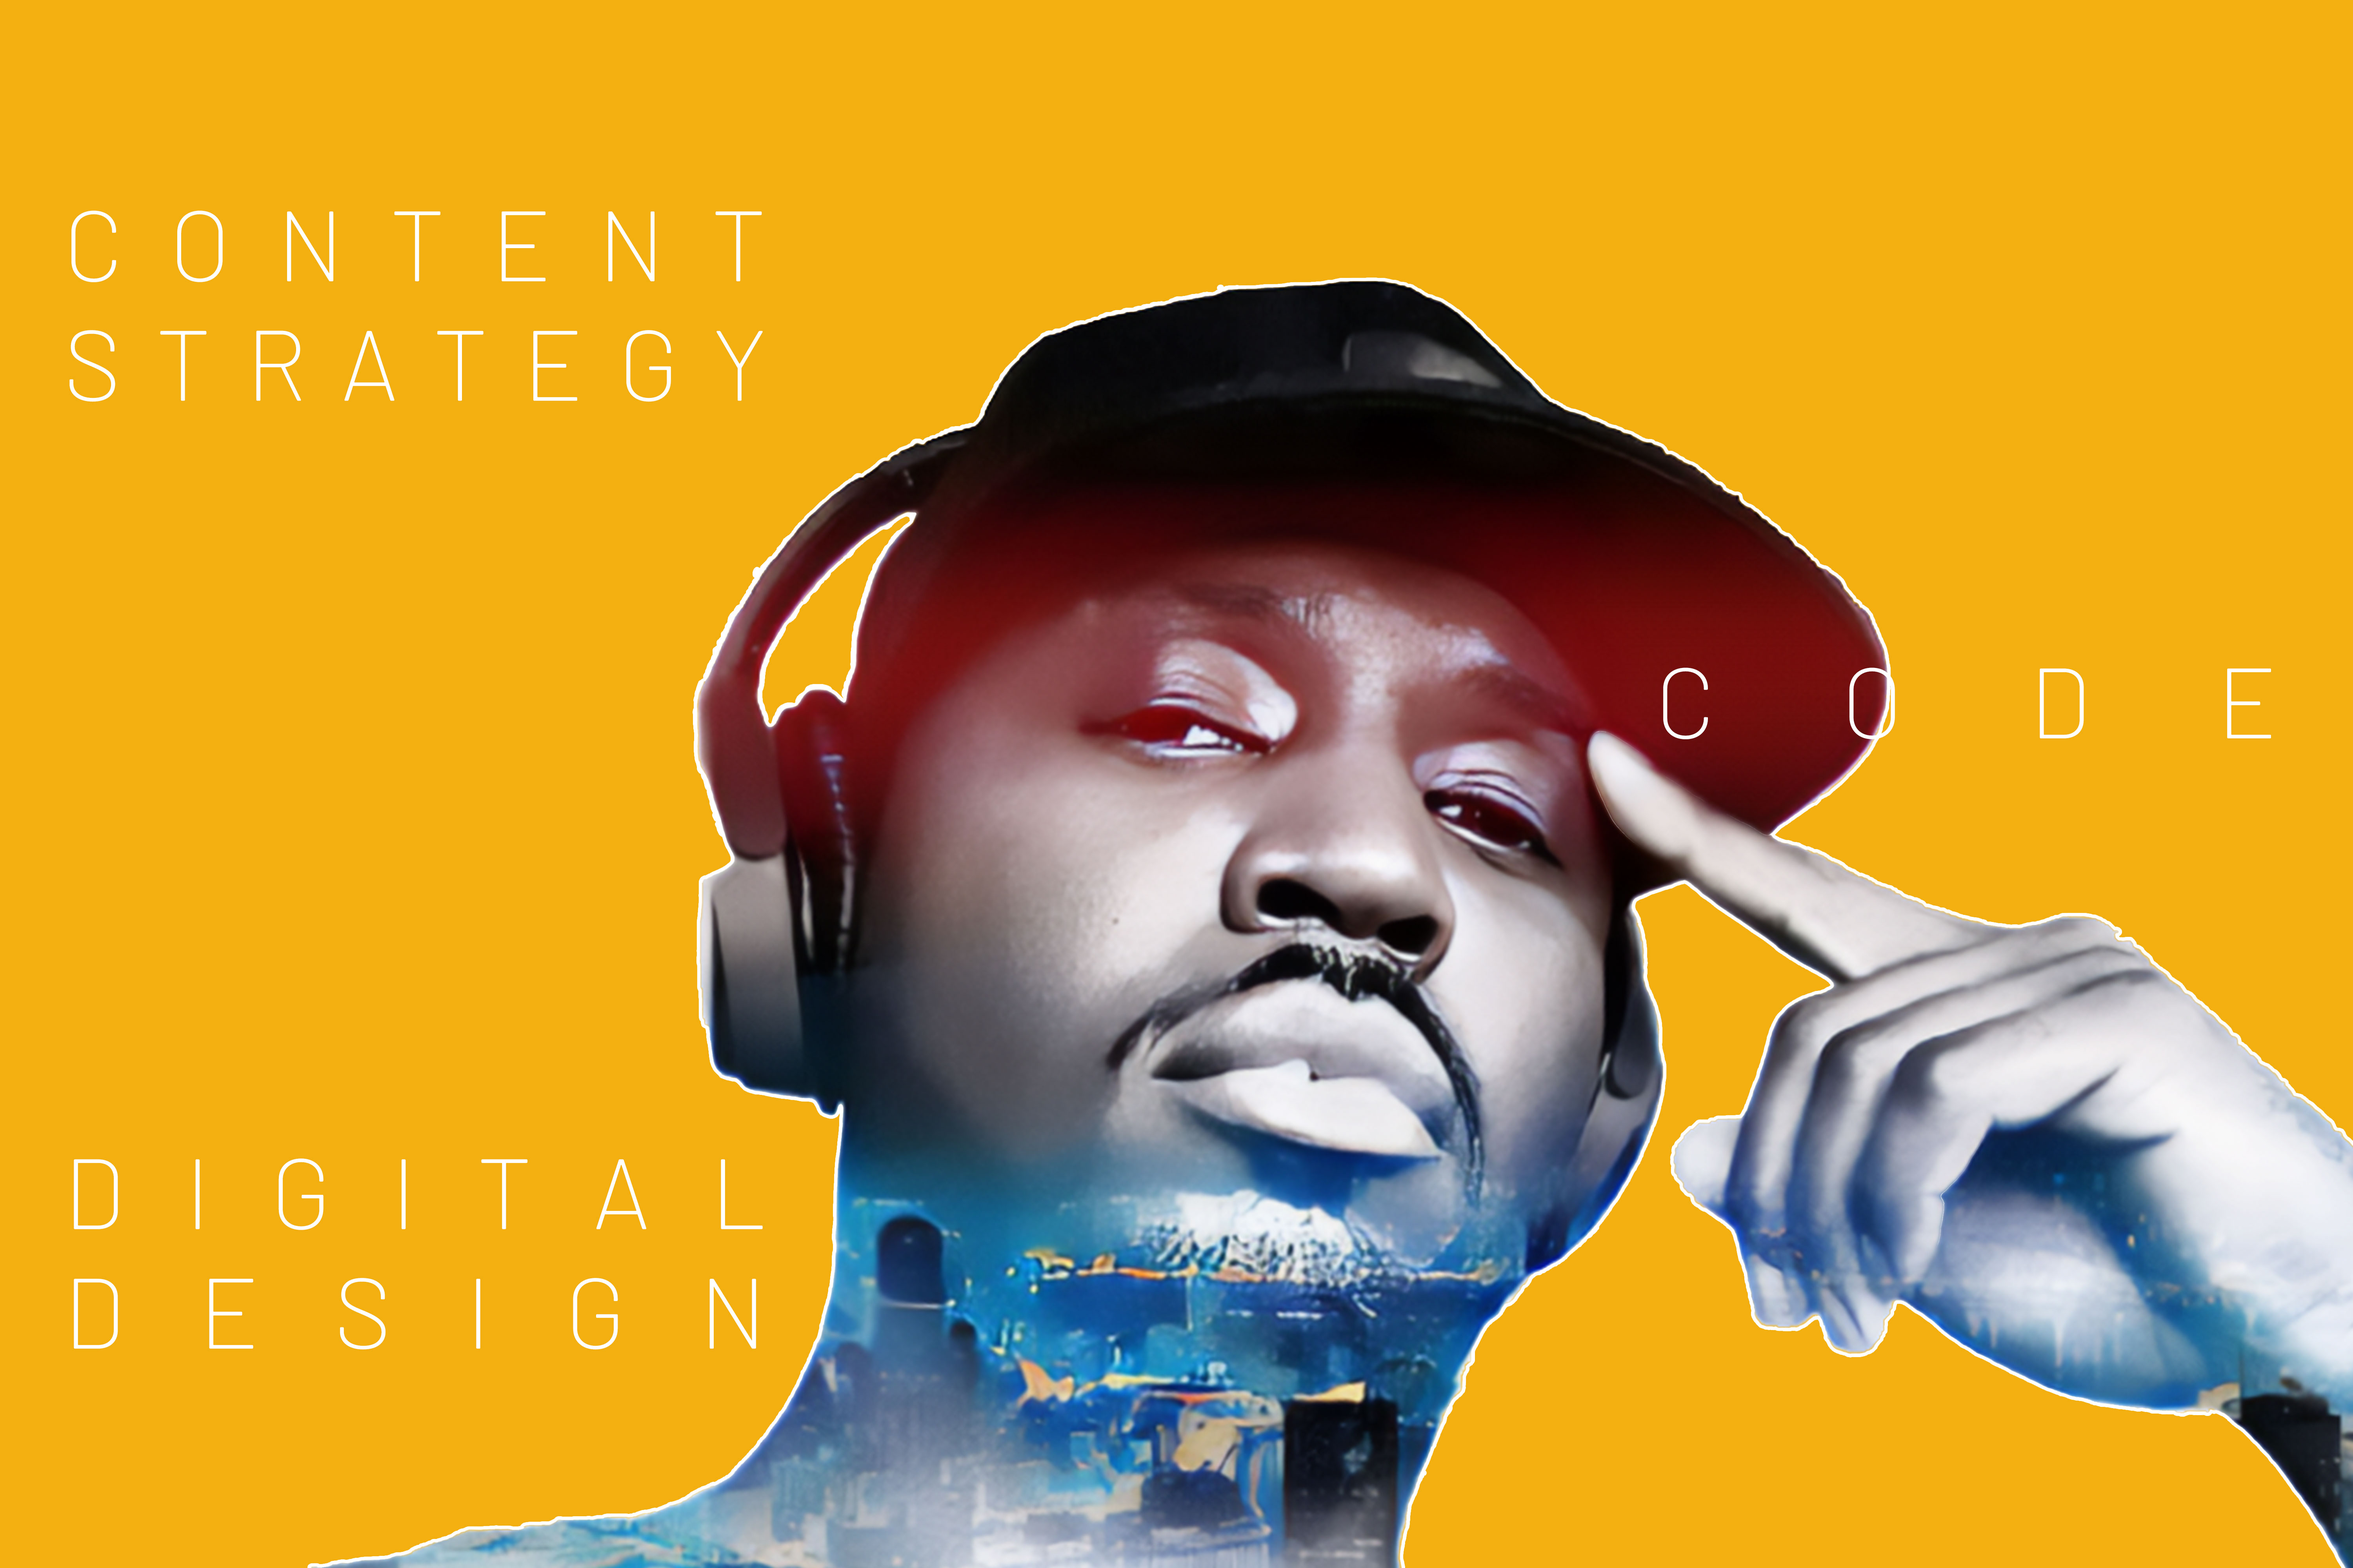
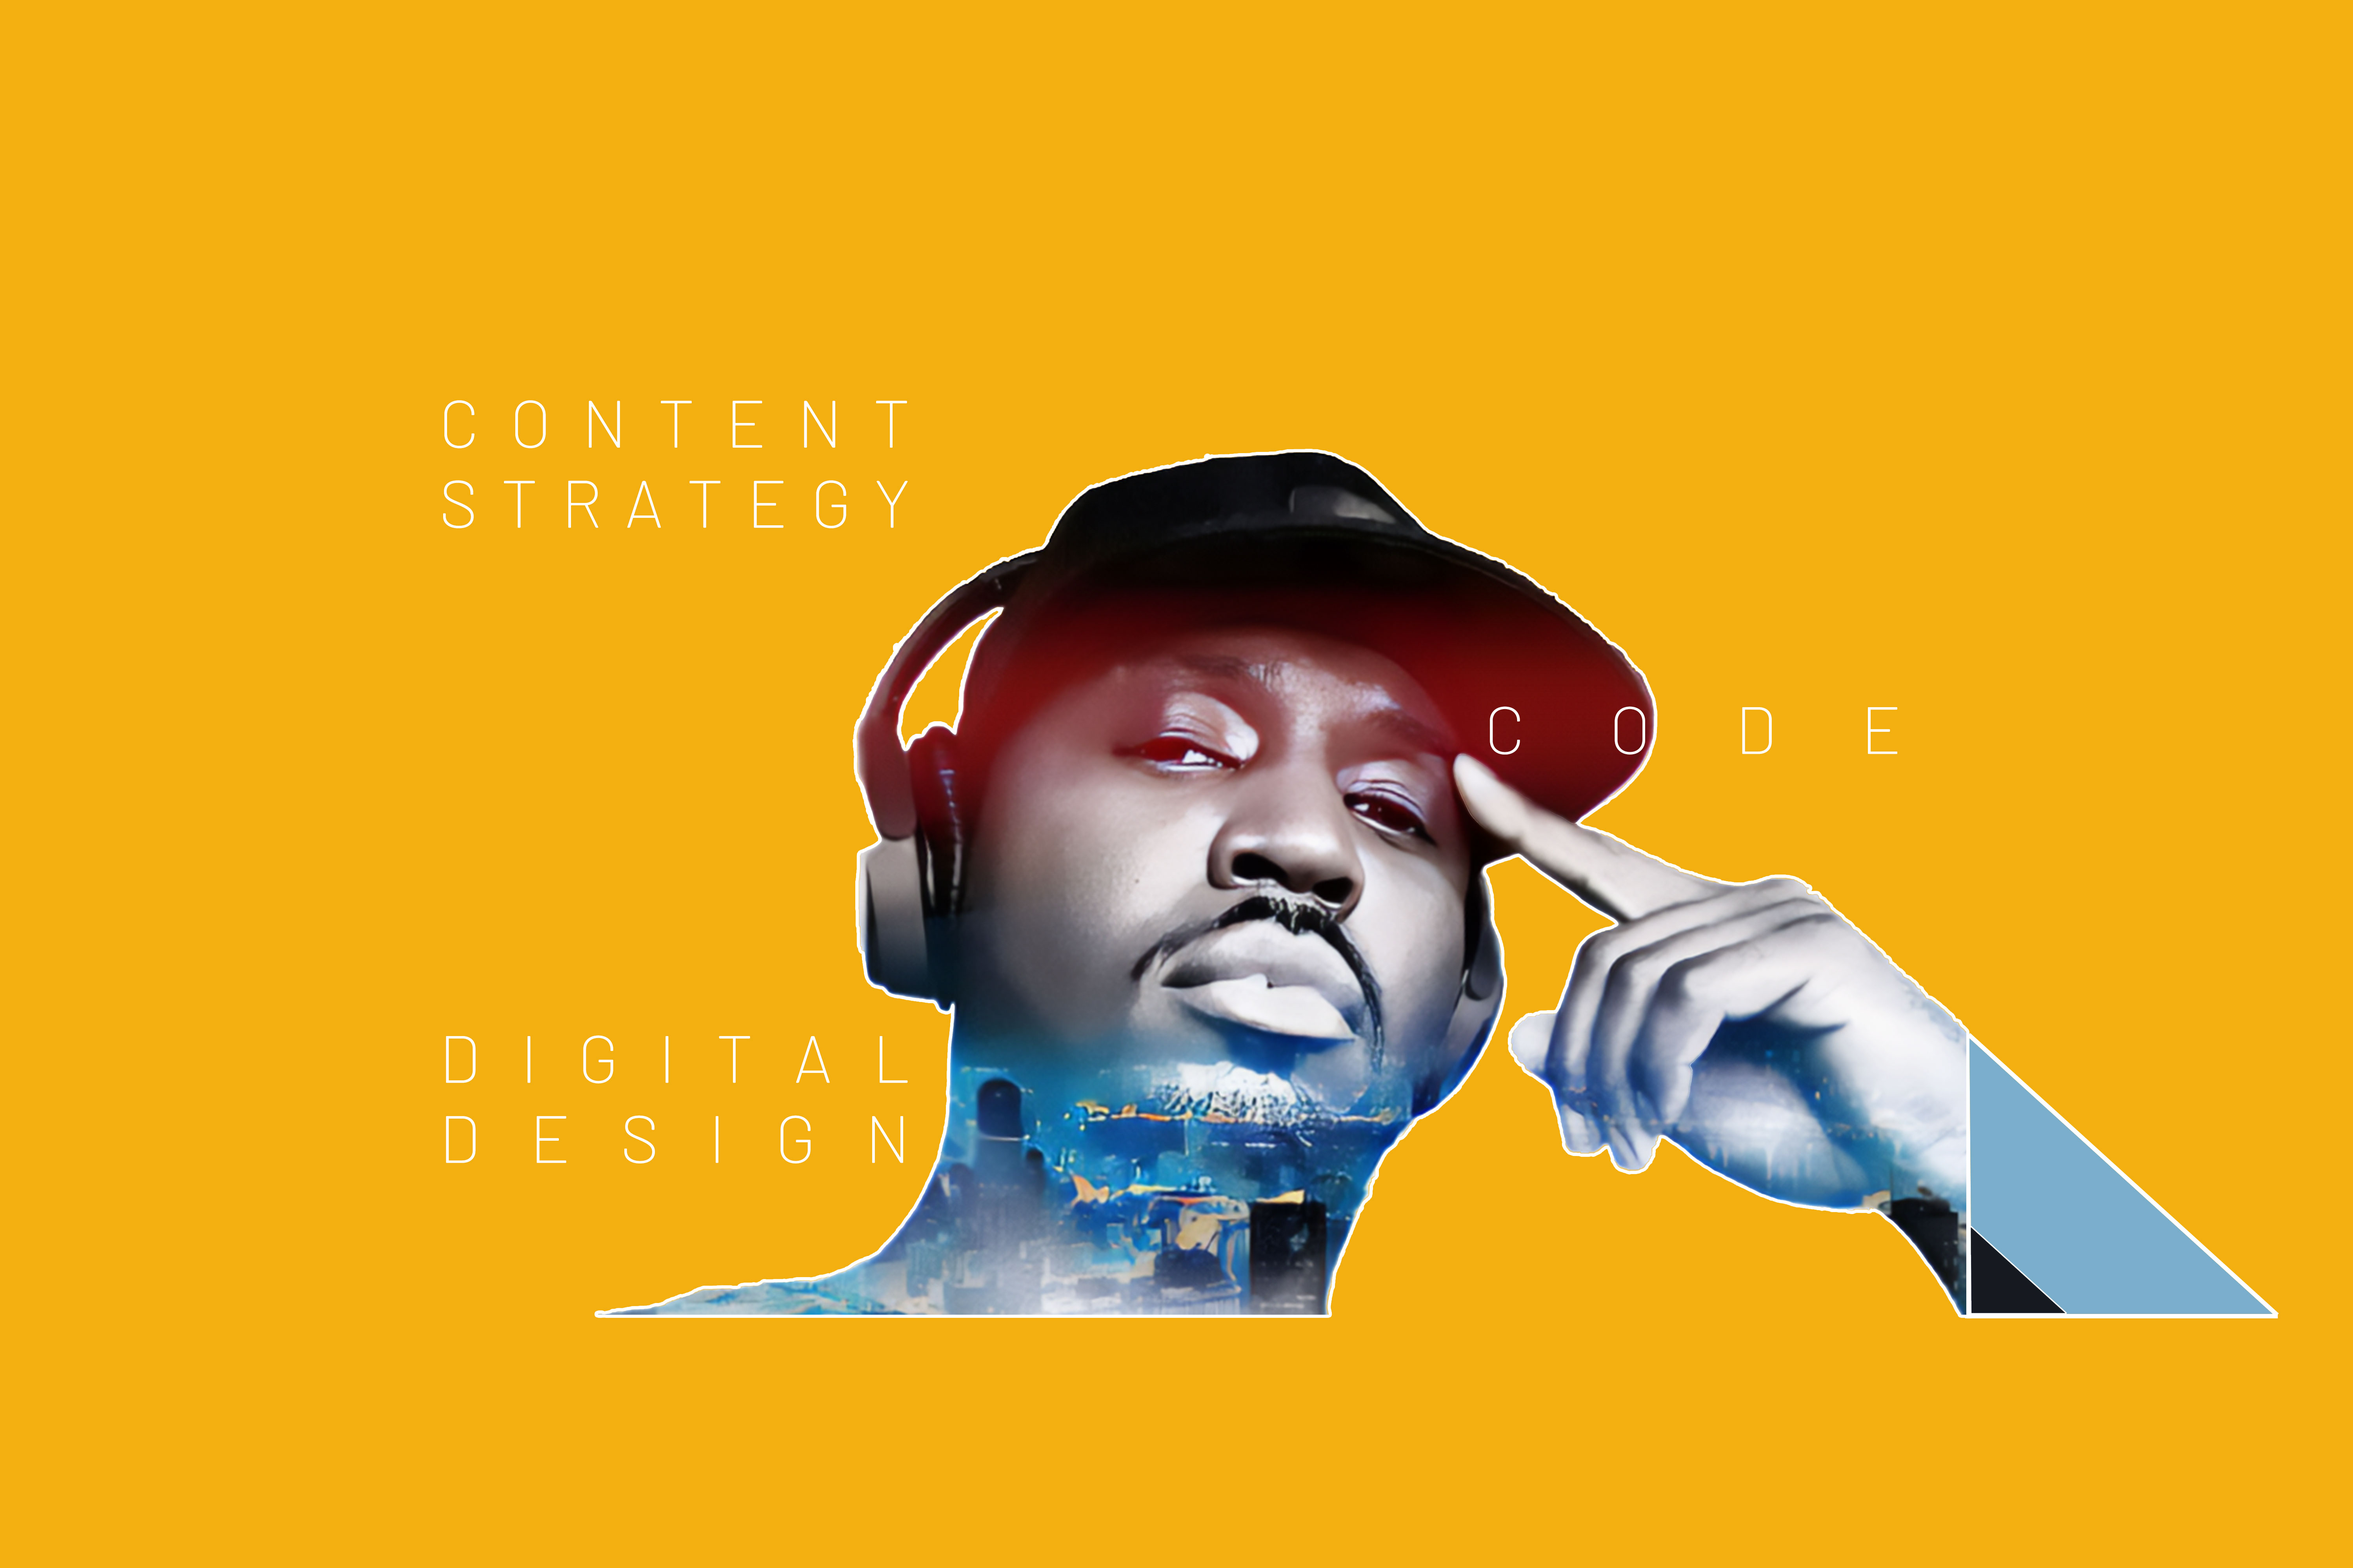
Hero image change

diff --git a/css/style.css b/css/style.css
@@ -51,10 +51,10 @@ nav a {
 }
 
 .hero {
-  background-image: url('/images/02-hero-bg.jpg'); /* Replace 'hero.jpg' with the path to your hero image */
+  background-image: url('/images/my_portfolio_picture.jpg'); /* Replace 'hero.jpg' with the path to your hero image */
   background-size: cover;
   background-position: center;
-  height: 300px;
+  height: 400px;
   color: white;
   text-align: center;
   display: flex;

diff --git a/index.html b/index.html
@@ -27,7 +27,7 @@
 
   <section class="hero">
     <div class="text">
-    <h2>Web Weave</h2>
+    <!-- <h2>Web Weave</h2> -->
     </div>
   
   </section>
